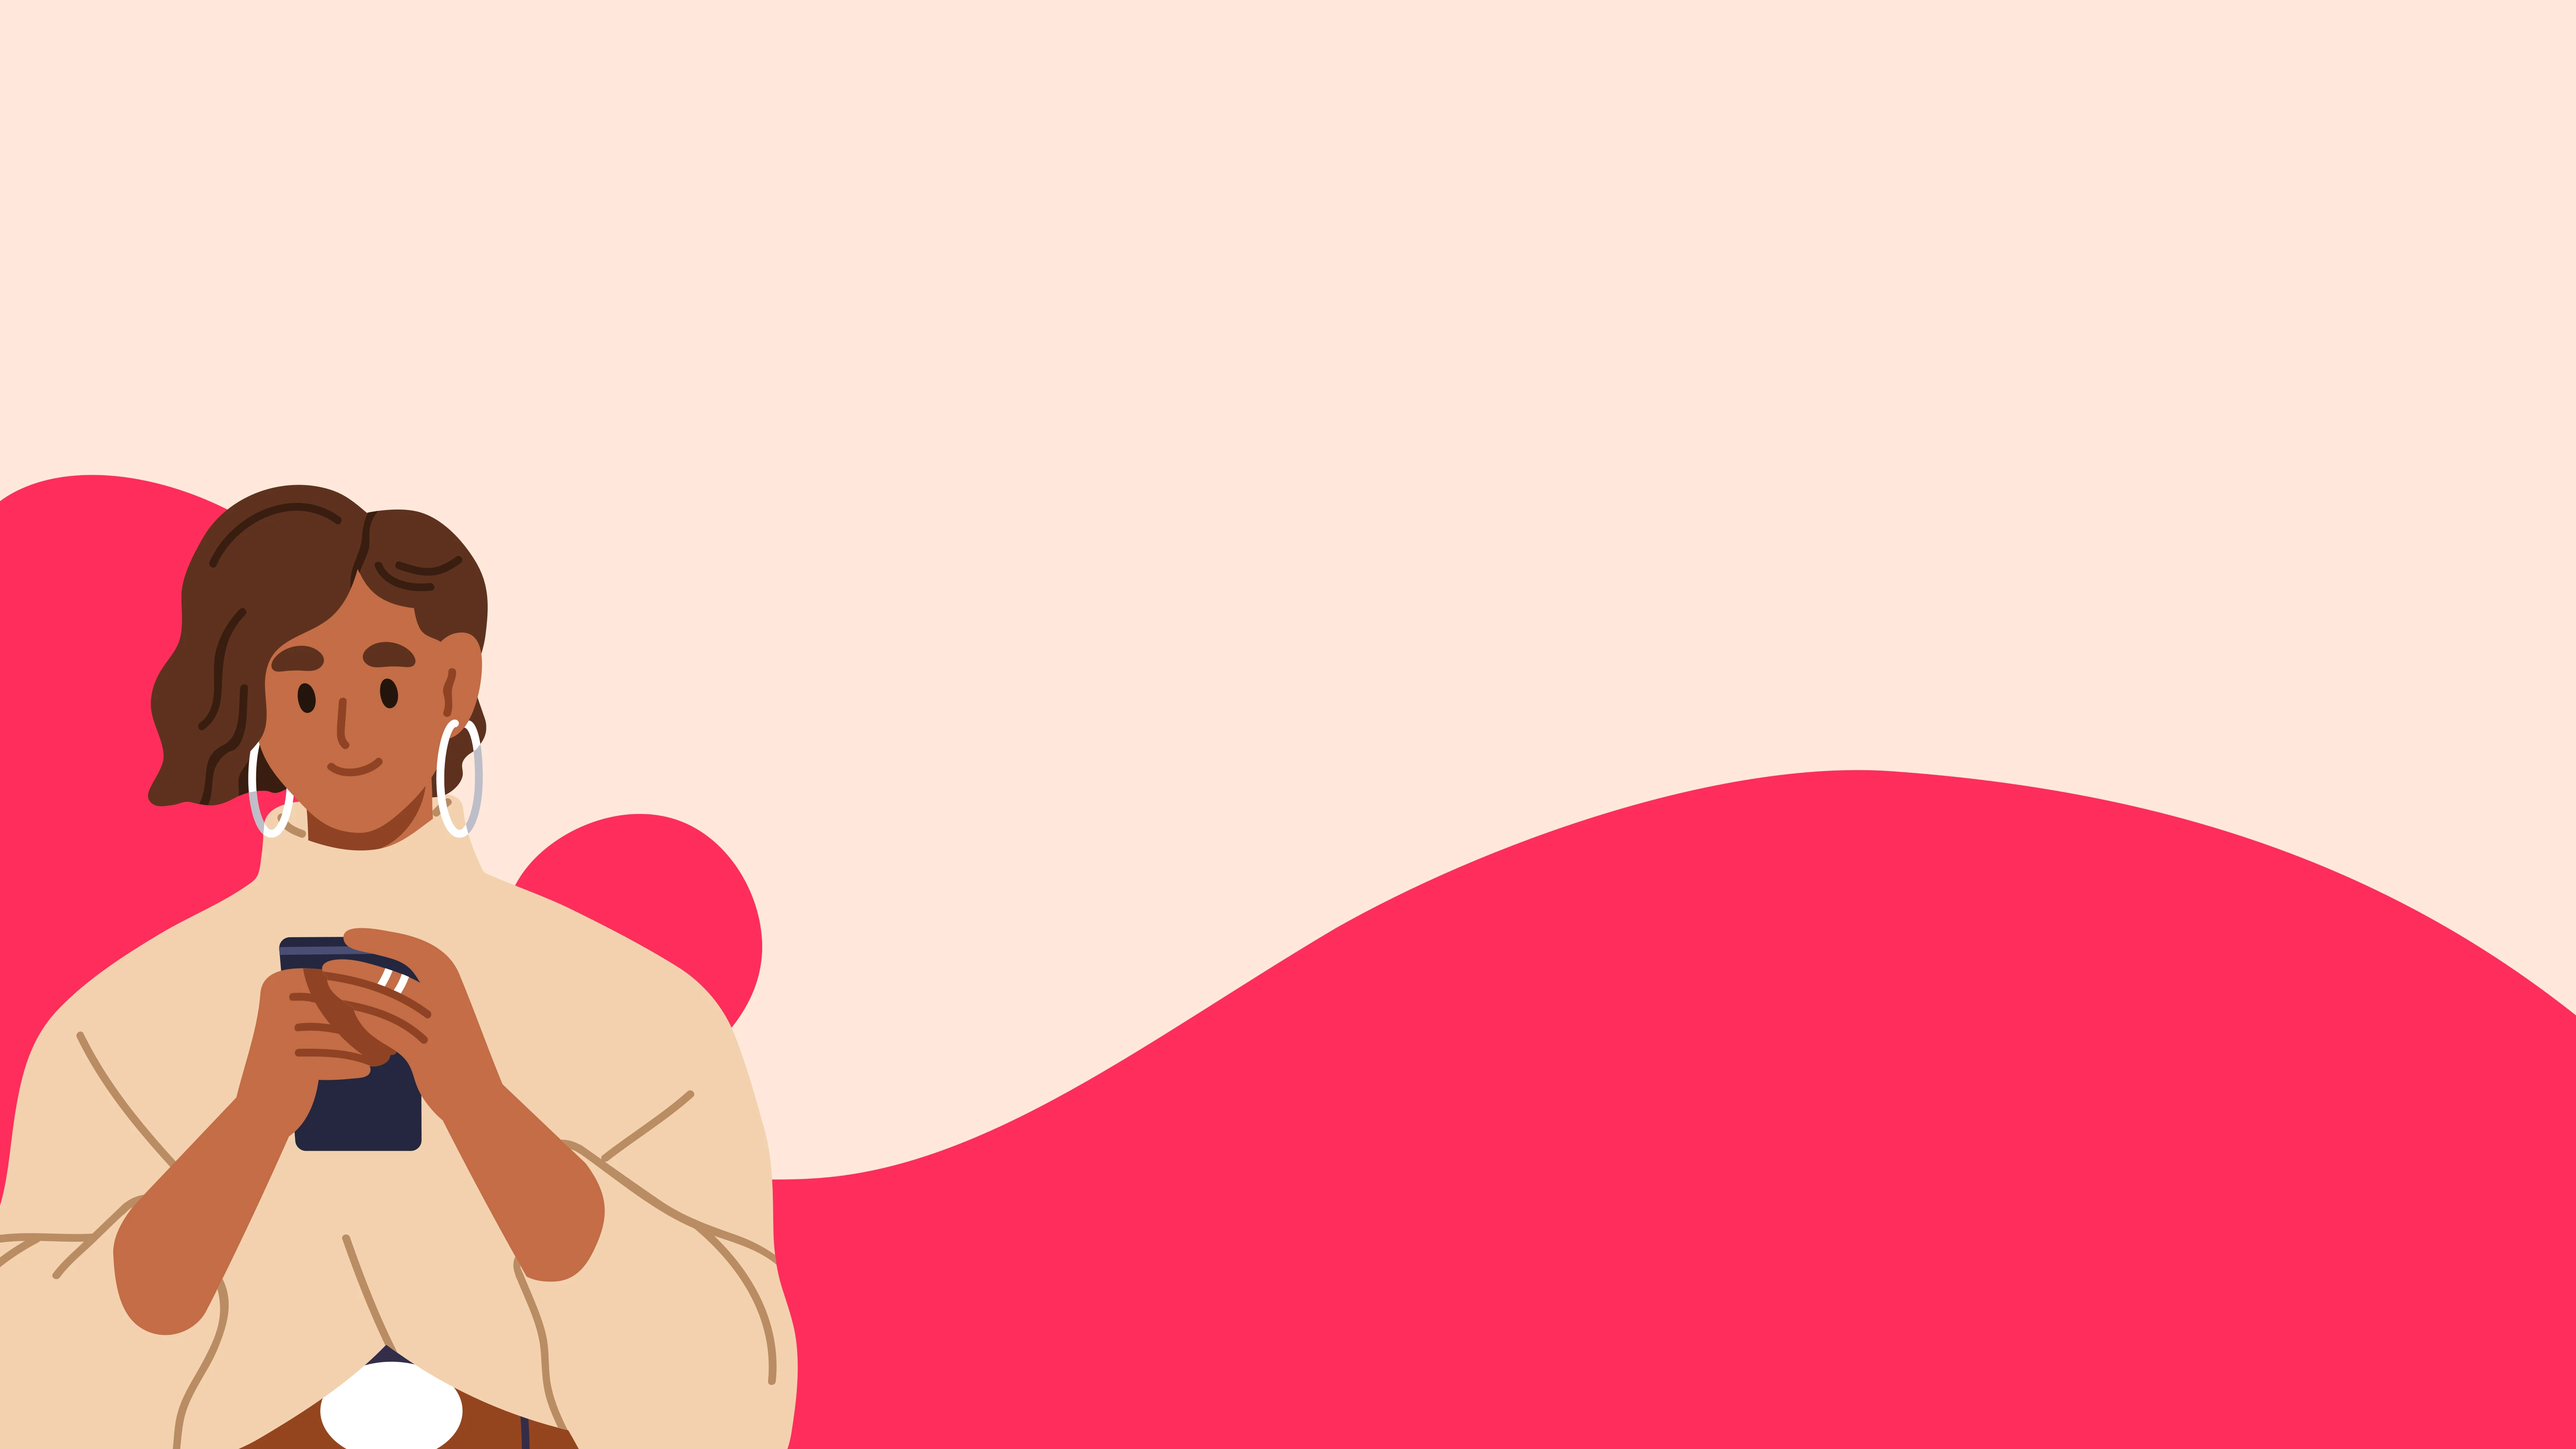
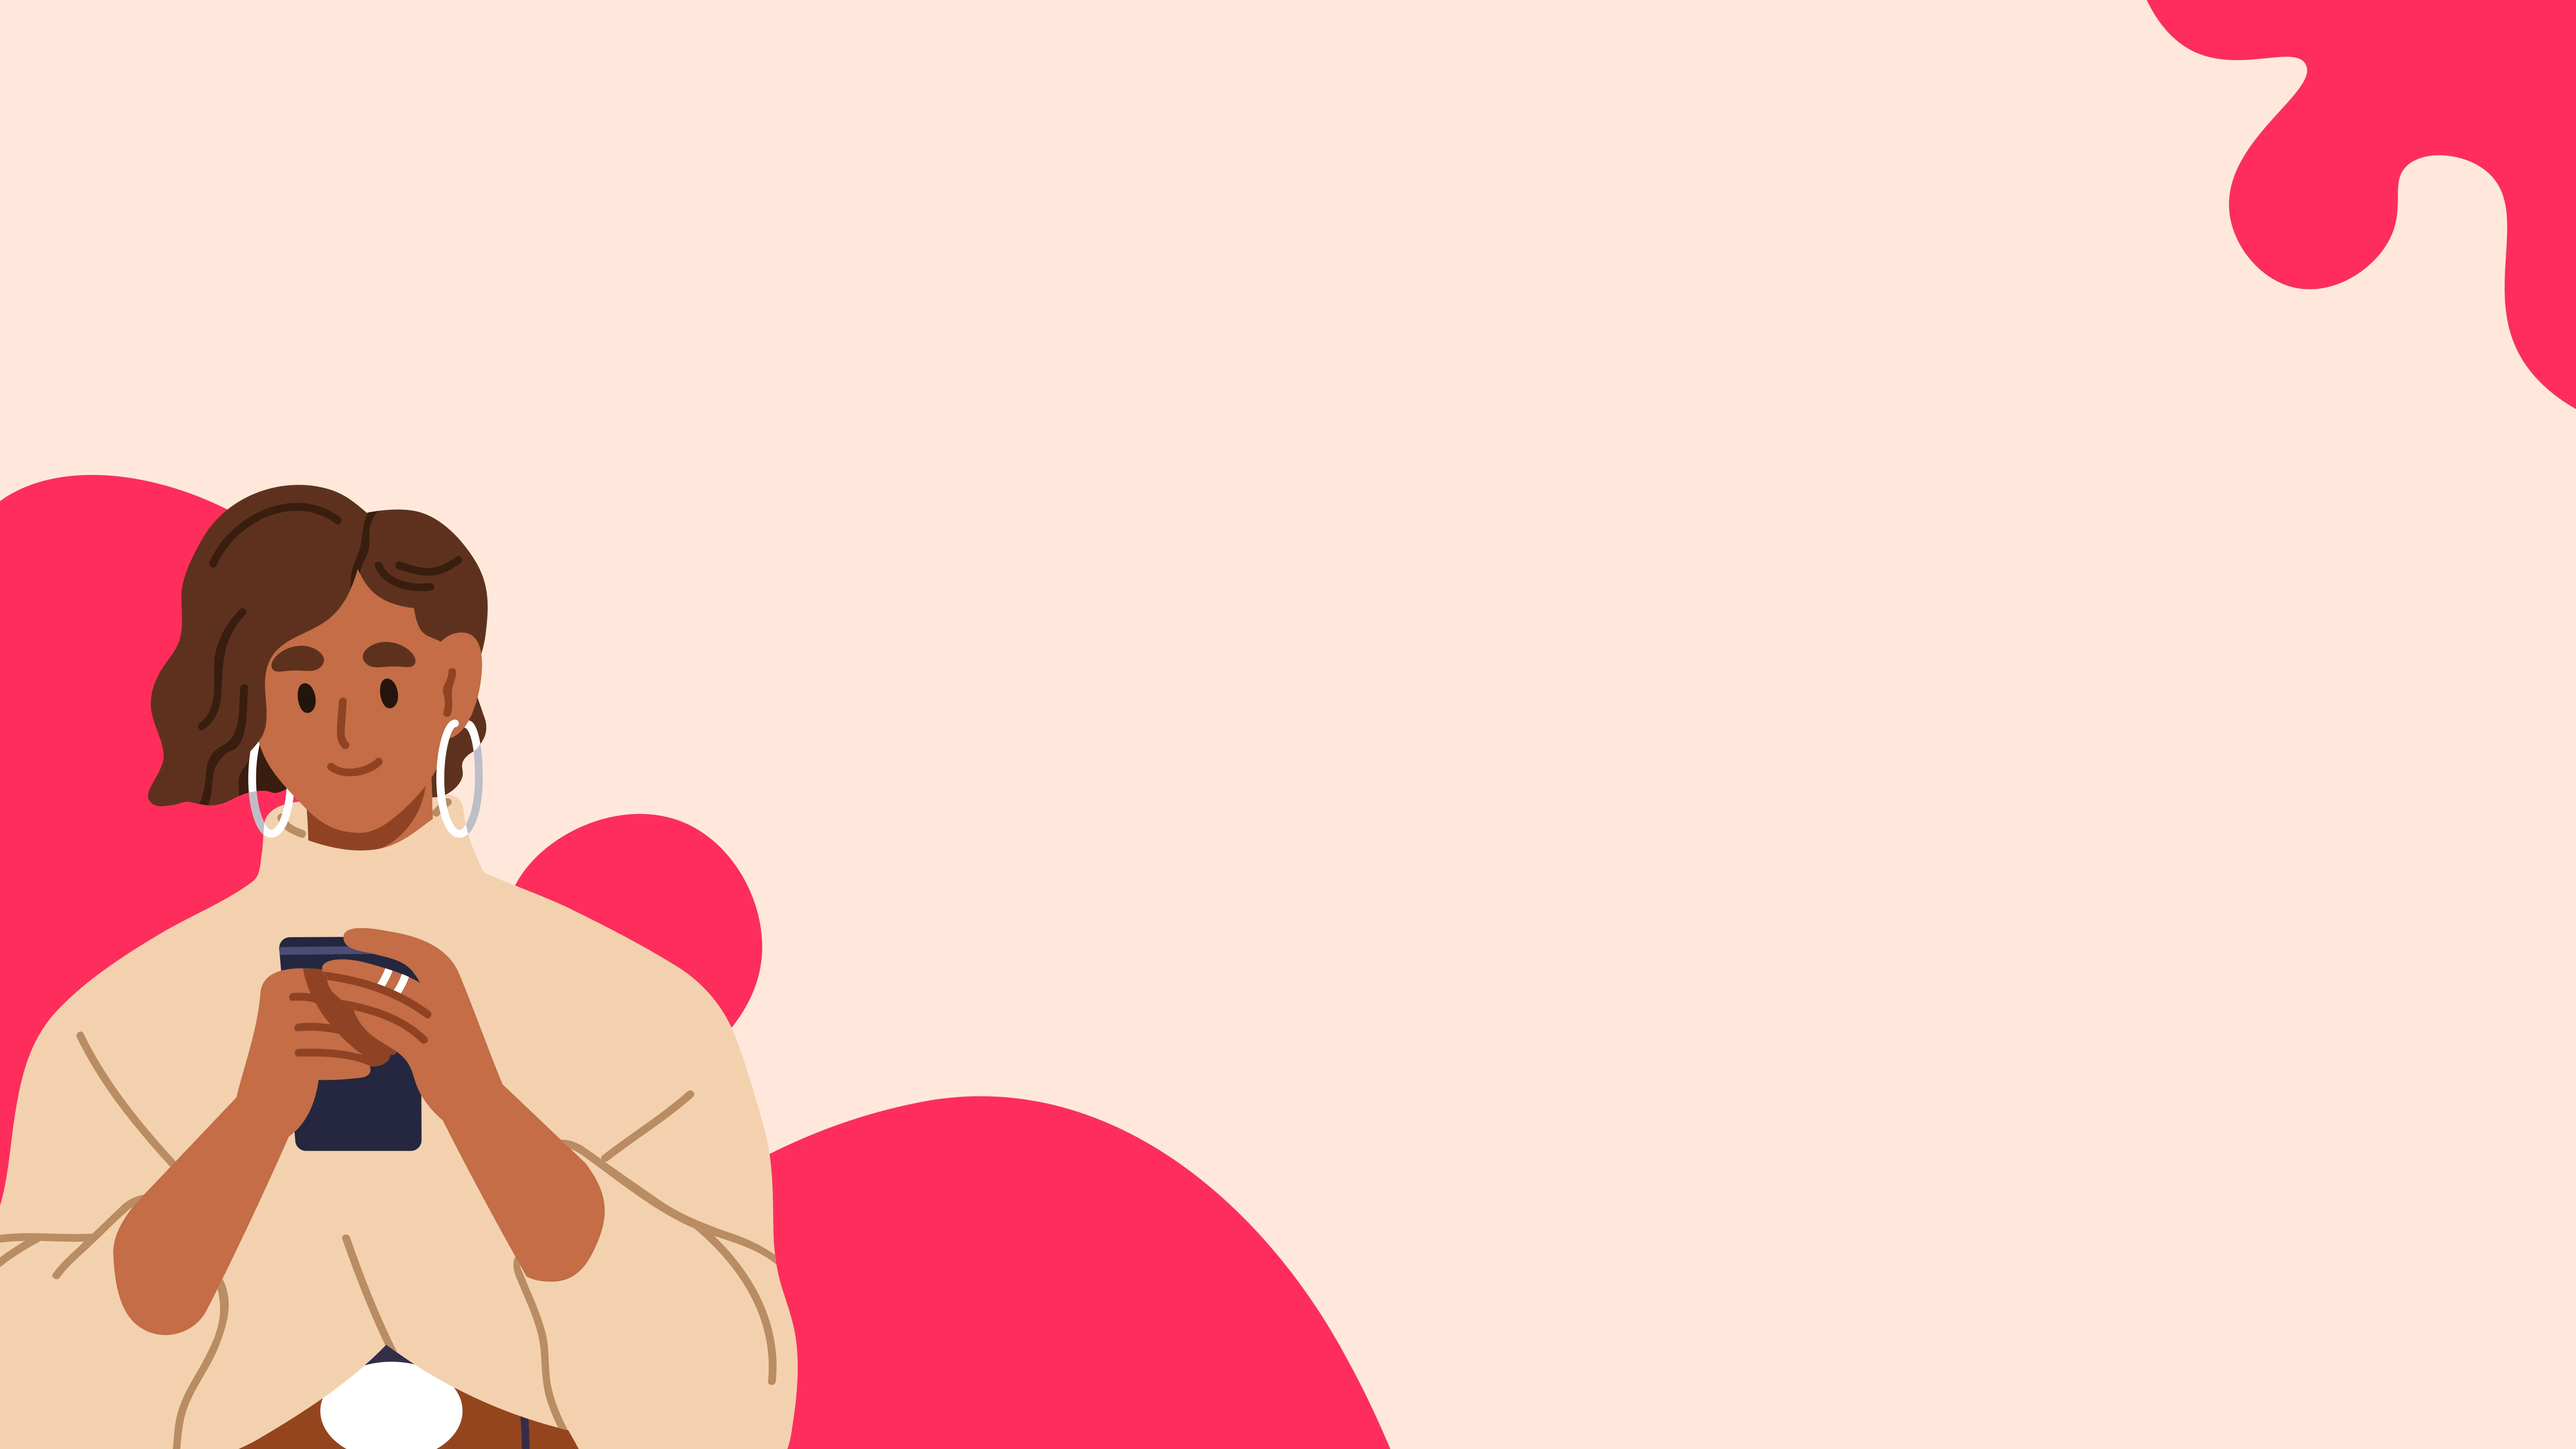
adjust resposive login

Changed region(s): [[0.2805, 0.5289, 1.0, 1.0], [0.8103, 0.0, 1.0, 0.28]]

diff --git a/src/app/pages/login/login.component.scss b/src/app/pages/login/login.component.scss
@@ -2,7 +2,6 @@
   background-image: url("/assets/banner-background-login.webp");
   background-size: cover;
   background-repeat: no-repeat;
-  background-position: center;
   height: 100vh;
 
   &__container{
@@ -148,14 +147,42 @@
       gap: 1rem;
       padding: 2rem;
       background: rgba(255, 255, 255, 0.4);
-      backdrop-filter: blur(50px);
+      backdrop-filter: blur(150px);
       -webkit-backdrop-filter: blur(10px);
       border-radius: 50px;
 
+      &-form{
+        display: flex;
+        align-items: center;
+        justify-content: center;
+        flex-direction: column;
+        gap: 1rem;
+        margin: 0 auto;
+        width: 92%;
+
+        &-input{
+          width: 100%;
+          padding: 0.75rem 1rem;
+          border-radius: 50px;
+          background: none;
+          border: 2px solid #ff7cb1;
+          font-size: .8rem;
+          color: rgb(255, 45, 90);
+        }
+
+        &-btn{
+          padding: 1rem 2rem;
+          border-radius: 50px;
+          min-width: 120px;
+          cursor: pointer;
+          transition: .5s;
+        }
+      }
+
       &-obs{
-        font-size: .85rem;
+        font-size: .7rem;
         font-weight: bolder;
-        color: #ff7cb1;
+        color: #91003b;
         display: flex;
       }
     }
